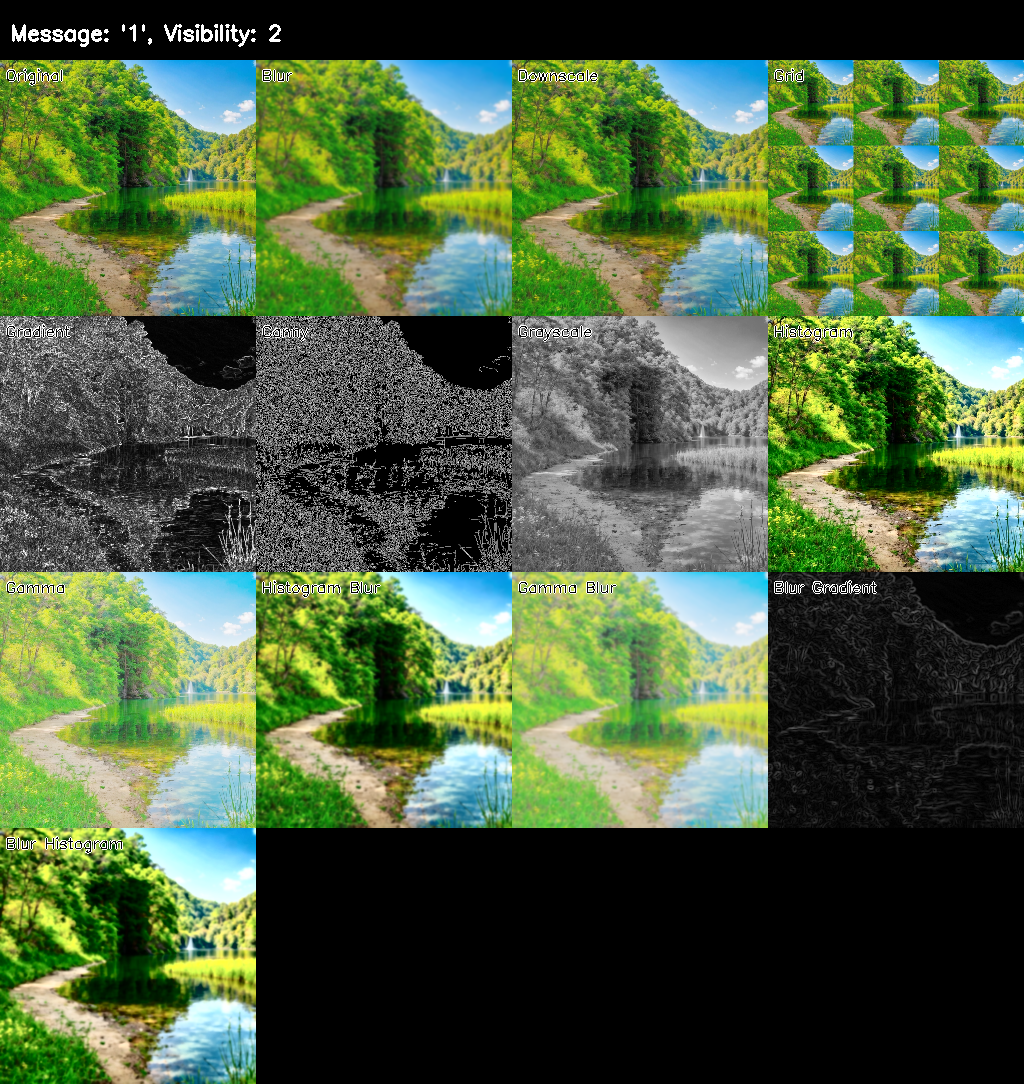
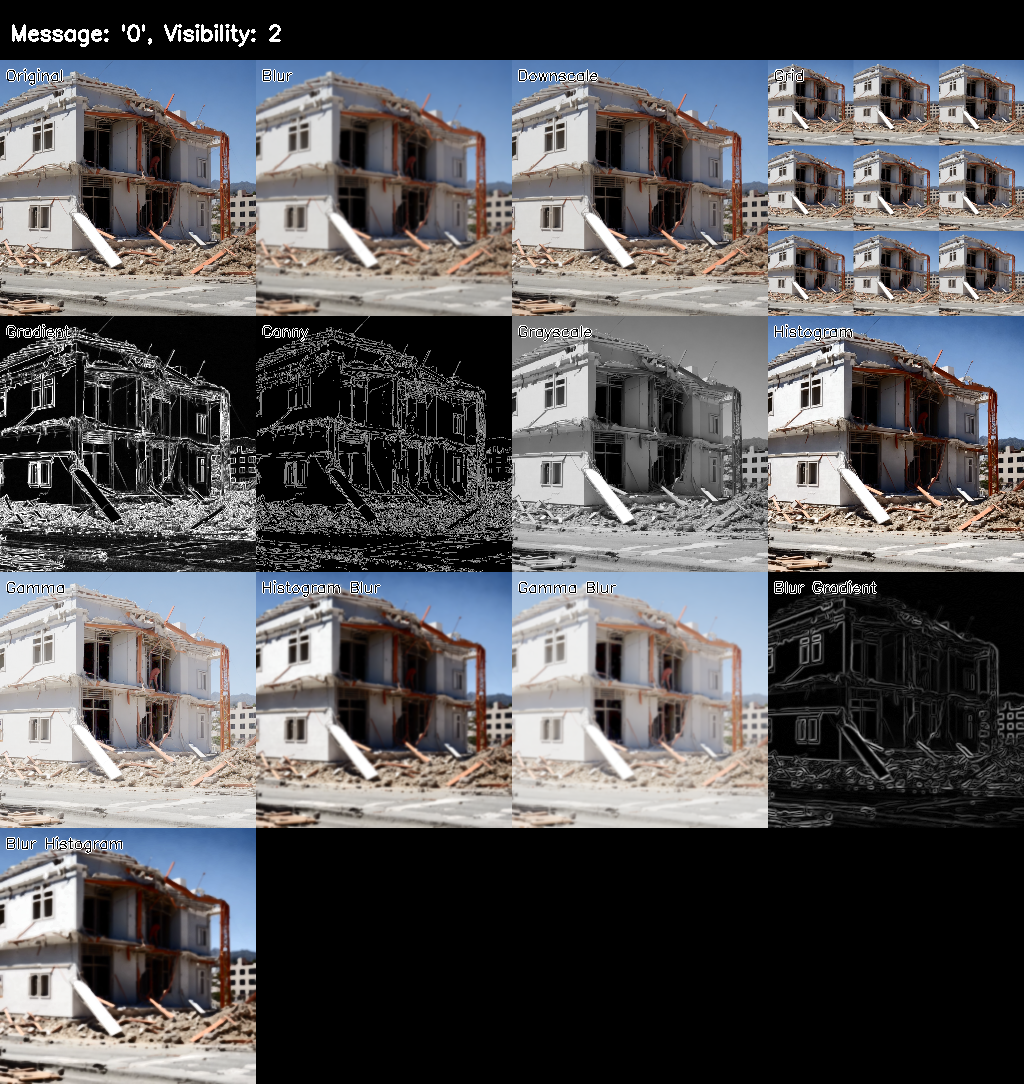
fix: visualization script imports and add mypy config
- Fix sys.path.insert order in visualize_transformations.py
- Add type annotation to test_dataset_composition.py
- Add mypy.ini to ignore missing stubs for third-party packages

diff --git a/scripts/visualize_transformations.py b/scripts/visualize_transformations.py
@@ -10,18 +10,20 @@ Usage:
 Example:
     python scripts/visualize_transformations.py --output transformations.png --index 42
 """
-# pylint: disable=no-member
+# pylint: disable=no-member,wrong-import-position
 
 import argparse
 import sys
 from pathlib import Path
 
+# Add project root to path before local imports
+sys.path.insert(0, str(Path(__file__).parent.parent))
+
 import cv2
 import numpy as np
+from datasets import load_dataset
+from huggingface_hub import hf_hub_download
 from PIL import Image
-
-# Add project root to path
-sys.path.insert(0, str(Path(__file__).parent.parent))
 
 from utils.preprocessing import PreprocessingPipeline
 
@@ -36,9 +38,6 @@ def download_image_from_huggingface(image_path: str) -> np.ndarray:
     Returns:
         Image as numpy array (H, W, C) in RGB format
     """
-    from huggingface_hub import hf_hub_download
-
-    # The dataset stores images under digits/ folder
     filename = f"digits/{image_path}"
     print(f"Downloading: {filename}")
 
@@ -48,18 +47,17 @@ def download_image_from_huggingface(image_path: str) -> np.ndarray:
         repo_type="dataset"
     )
 
-    # Load image
-    img = Image.open(local_path)
-    img = img.convert("RGB")
+    pil_img = Image.open(local_path)
+    rgb_img = pil_img.convert("RGB")
 
-    return np.array(img)
+    return np.array(rgb_img)
 
 
 def load_dataset_image(index: int = None):
     """
     Load an image from the HatefulIllusion dataset.
 
-    Downloads the actual image from the GitHub repository.
+    Downloads the actual image from the HuggingFace repository.
 
     Args:
         index: Specific image index, or None for random
@@ -67,8 +65,6 @@ def load_dataset_image(index: int = None):
     Returns:
         Tuple of (image as numpy array, metadata dict)
     """
-    from datasets import load_dataset
-
     print("Loading HatefulIllusion dataset metadata...")
     ds = load_dataset("yiting/HatefulIllusion_Dataset", "digits", split="train")
 
@@ -77,7 +73,6 @@ def load_dataset_image(index: int = None):
 
     item = ds[index]
 
-    # Download actual image from GitHub
     image_path = item["image"]
     print(f"Selected sample {index}: {image_path}")
 
@@ -109,15 +104,12 @@ def create_visualization_grid(results: dict, metadata: dict) -> np.ndarray:
     Returns:
         Grid image as numpy array
     """
-    # Get all images and names
     names = ["original"] + PreprocessingPipeline.TRANSFORMATIONS
     images = [results[name] for name in names]
 
-    # Calculate grid dimensions (4 columns)
     n_cols = 4
     n_rows = (len(images) + n_cols - 1) // n_cols
 
-    # Resize all images to same size for grid
     target_size = (256, 256)
     resized = []
     for img in images:
@@ -125,14 +117,12 @@ def create_visualization_grid(results: dict, metadata: dict) -> np.ndarray:
             img = cv2.resize(img, target_size)
         resized.append(img)
 
-    # Create grid
     rows = []
     for i in range(n_rows):
         row_images = []
         for j in range(n_cols):
             idx = i * n_cols + j
             if idx < len(resized):
-                # Add label to image
                 img = resized[idx].copy()
                 label = names[idx].replace("_", " ").title()
                 cv2.putText(
@@ -145,7 +135,6 @@ def create_visualization_grid(results: dict, metadata: dict) -> np.ndarray:
                 )
                 row_images.append(img)
             else:
-                # Pad with black
                 row_images.append(
                     np.zeros((target_size[0], target_size[1], 3), dtype=np.uint8)
                 )
@@ -153,7 +142,6 @@ def create_visualization_grid(results: dict, metadata: dict) -> np.ndarray:
 
     grid = np.vstack(rows)
 
-    # Add title bar
     title_height = 60
     title_bar = np.zeros((title_height, grid.shape[1], 3), dtype=np.uint8)
     title = f"Message: '{metadata['message']}', Visibility: {metadata['visibility']}"
@@ -183,24 +171,19 @@ def main():
     )
     args = parser.parse_args()
 
-    # Load image
     image, metadata = load_dataset_image(args.index)
 
-    # Create pipeline and apply all transformations
     pipeline = PreprocessingPipeline()
     print("\nApplying transformations...")
     results = pipeline.apply_all_transformations(image)
 
-    # Create visualization
     print("Creating visualization grid...")
     grid = create_visualization_grid(results, metadata)
 
-    # Save result (convert RGB to BGR for OpenCV)
     output_path = Path(args.output)
     cv2.imwrite(str(output_path), cv2.cvtColor(grid, cv2.COLOR_RGB2BGR))
     print(f"\nVisualization saved to: {output_path.absolute()}")
 
-    # Print transformation list
     print("\nTransformations applied:")
     for i, name in enumerate(["original"] + PreprocessingPipeline.TRANSFORMATIONS, 1):
         print(f"  {i:2d}. {name}")

diff --git a/tests/property/test_dataset_composition.py b/tests/property/test_dataset_composition.py
@@ -144,7 +144,7 @@ class TestDatasetComposition:
             ("low", "symbolic"),
         ]
 
-        annotations = []
+        annotations: list[dict] = []
         for _ in range(total):
             vis, msg_type = categories[len(annotations) % 4]
             annotations.append({
